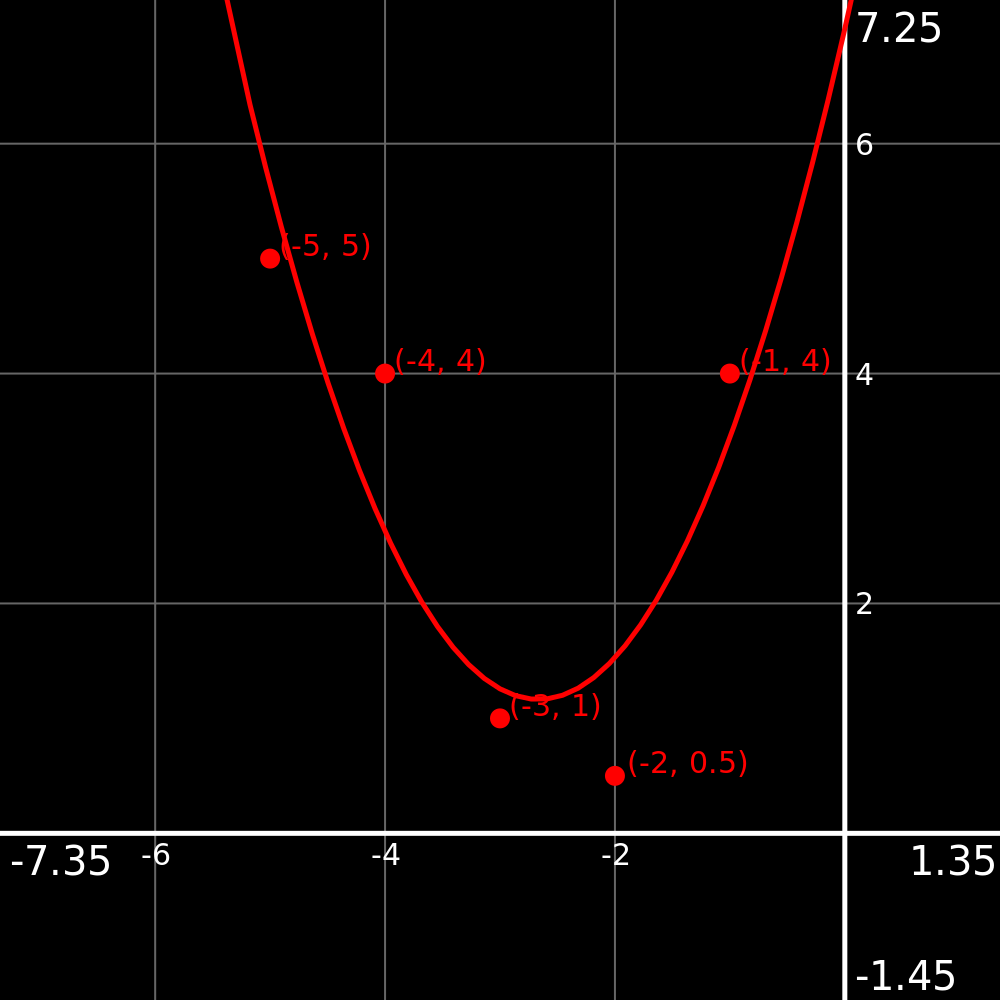
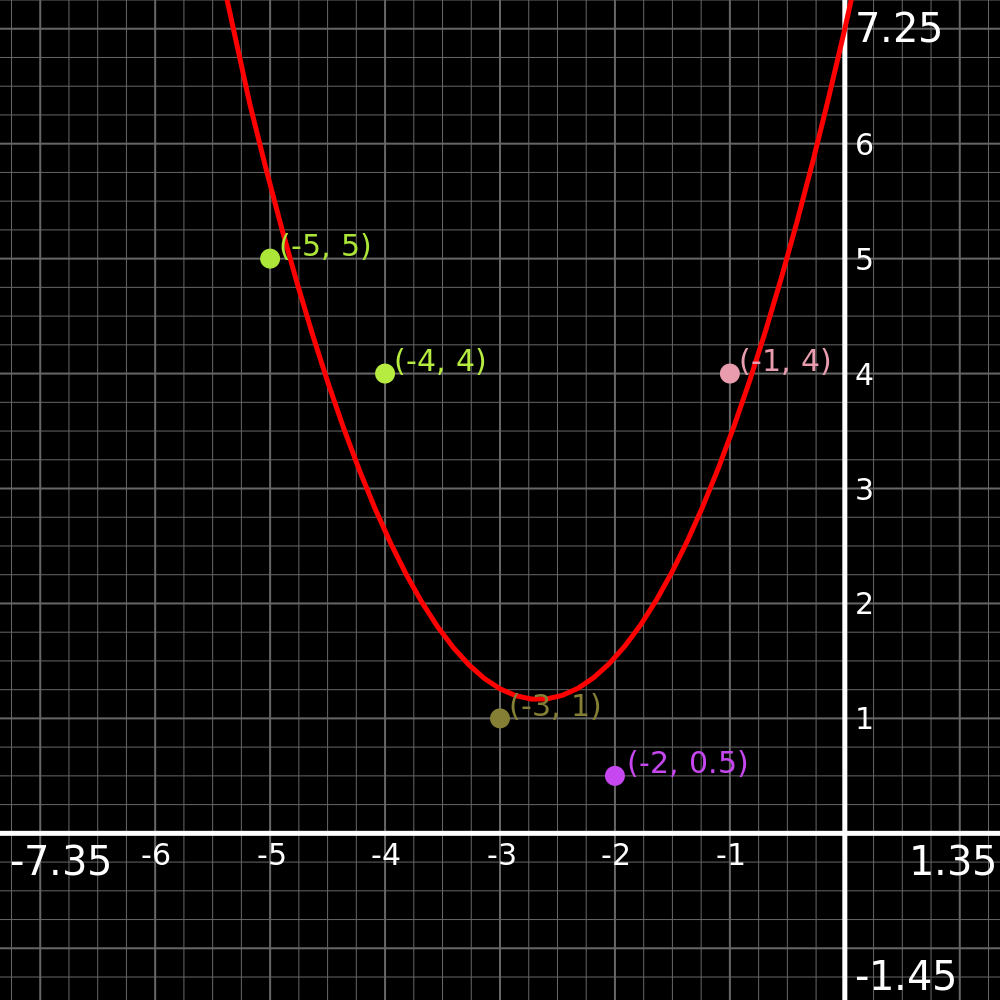
Update documentation example to use square_scale option

diff --git a/cas-graph/src/graph/mod.rs b/cas-graph/src/graph/mod.rs
@@ -32,11 +32,14 @@
 //! rendered to a PNG file.
 //!
 //! ```no_run
-//! use cas_graph::Graph;
+//! use cas_graph::{Graph, GraphOptions};
 //! use std::fs::File;
 //!
 //! # fn main() -> Result<(), Box<dyn std::error::Error>> {
-//! let surface = Graph::default()
+//! let surface = Graph::with_opts(GraphOptions {
+//!         square_scale: true, // scale the x- and y-axes together, looks nicer in my opinion
+//!         ..Default::default()
+//!     })
 //!     .try_add_expr("y == 0.8214285714x^2 + 4.3785714286x + 7").unwrap()
 //! //  .try_add_expr("0.8214285714x^2 + 4.3785714286x + 7").unwrap() // "y==" can be omitted
 //!     .add_point((-5.0, 5.0))
